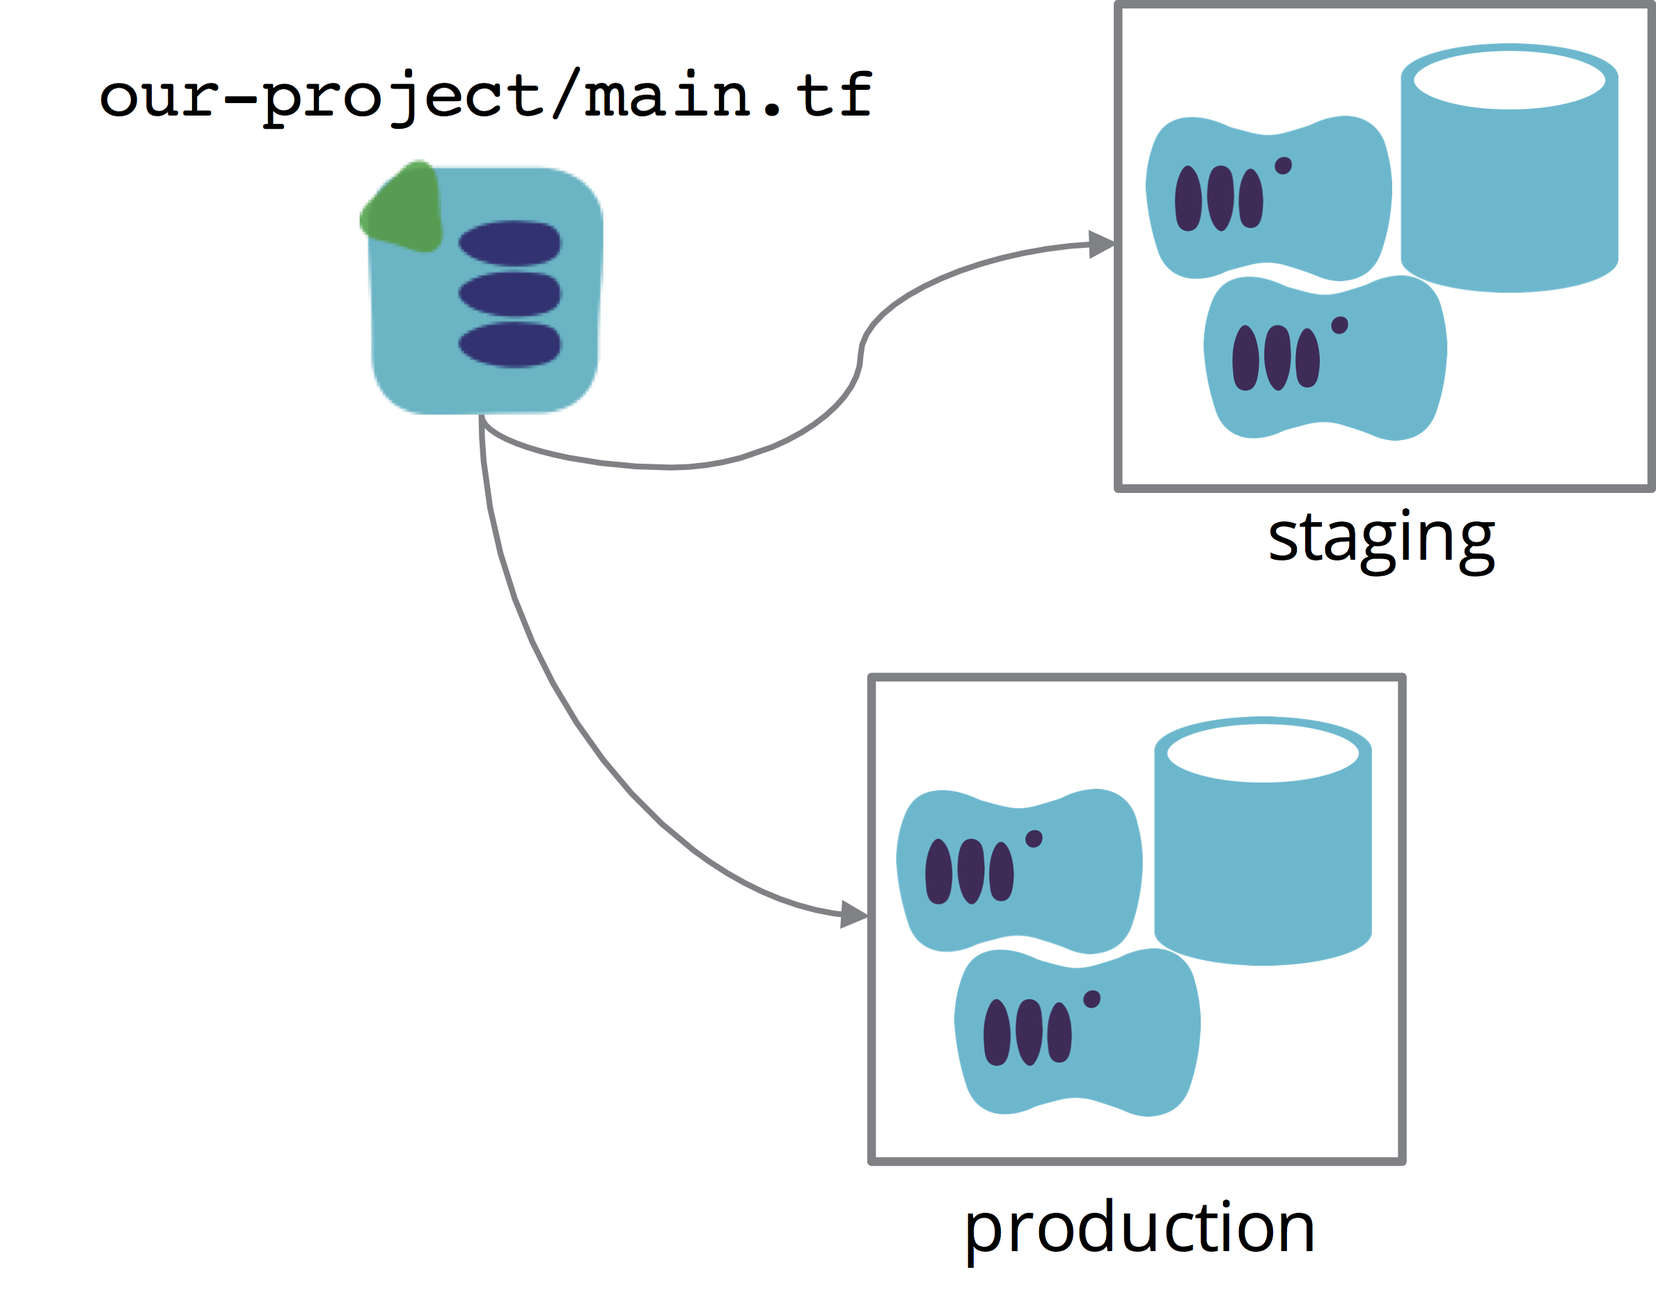
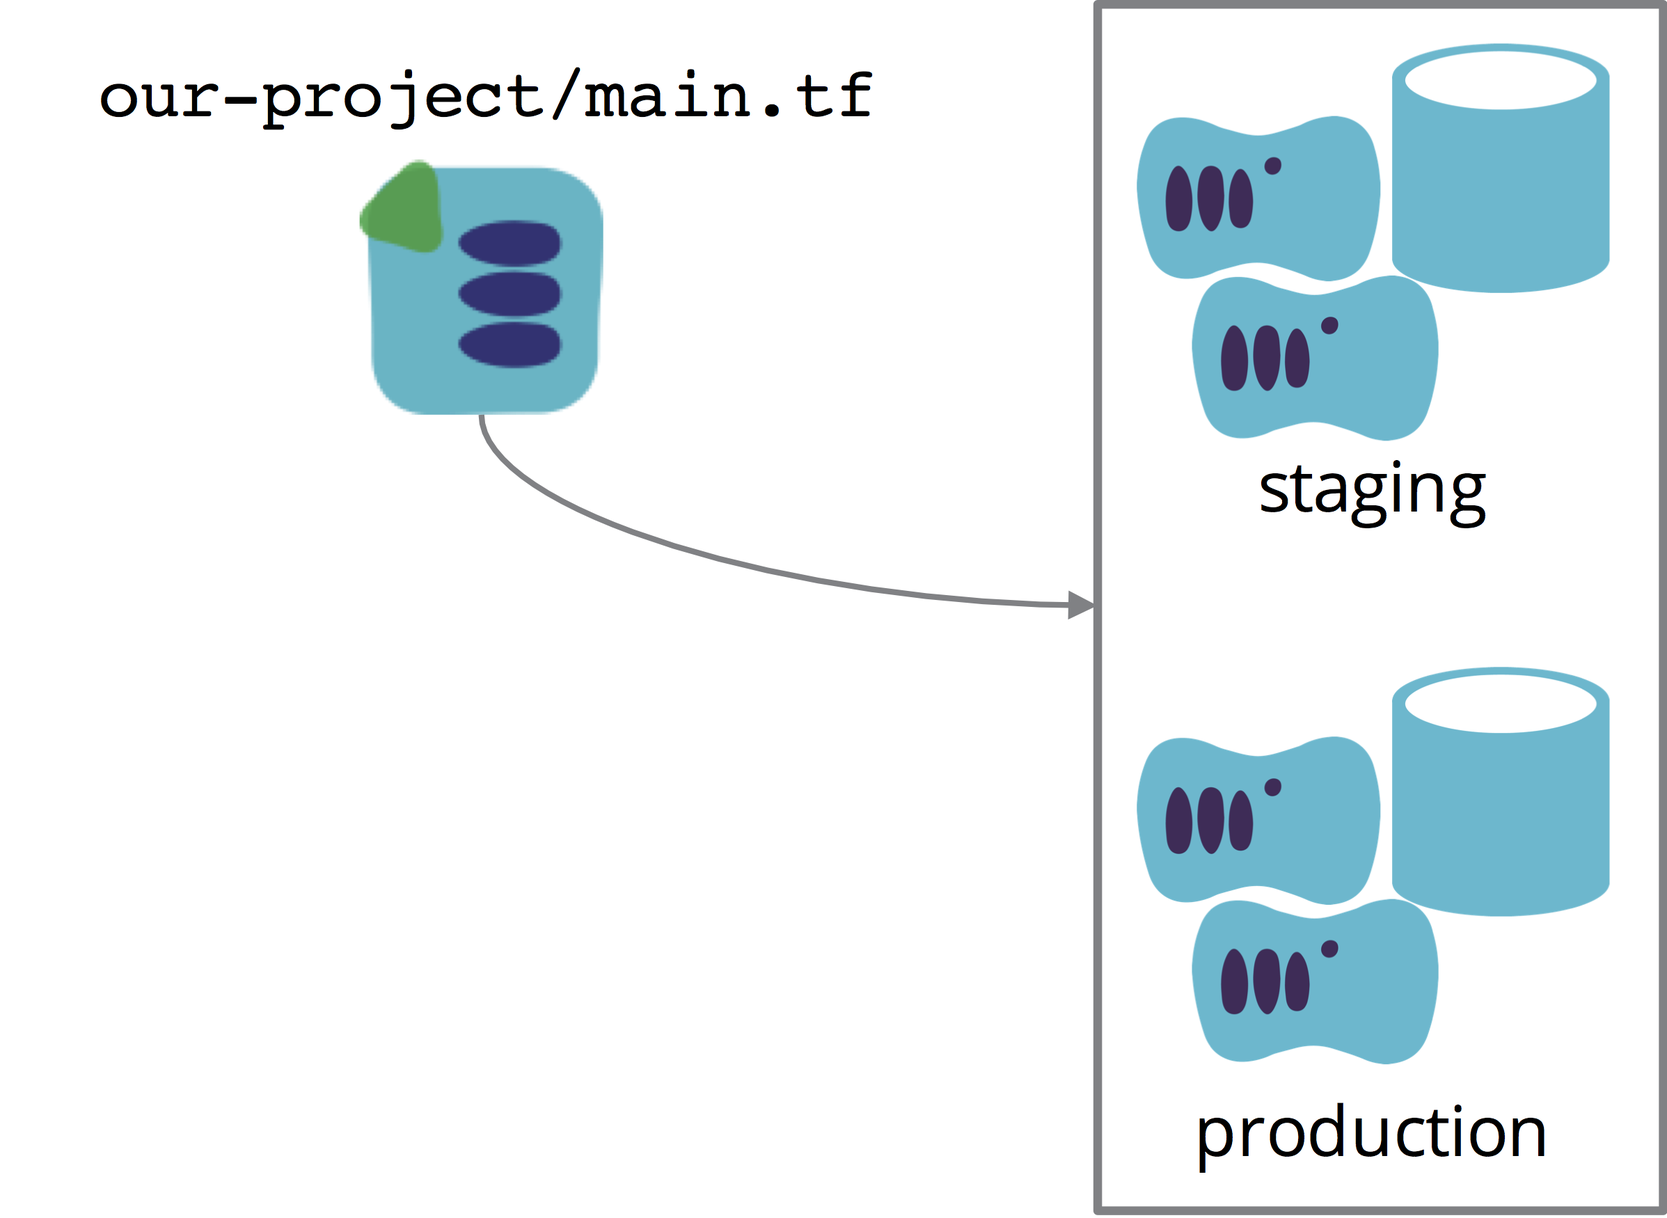
Updated speaking schedule

diff --git a/_posts/2016-12-12-environment-pipelines.md b/_posts/2016-12-12-environment-pipelines.md
@@ -1,0 +1,199 @@
+---
+layout: post
+title:  "Pipelines for Environments with Infrastructure as Code"
+date:   2012-12-12 08:44:00
+categories: book
+published: false
+---
+
+Tools like Terraform, CloudFormation, and Heat are a great way to define server infrastructure for environments for deploying software. The configuration to provision, modify, and rebuild an environment is captured in a way that is transparent, reproducible, and testable. Used right, these tools give us confidence to tweak, change, and refactor our infrastructure easily and comfortably.
+
+But as most of us discover after using the tools for a while, there are pitfalls. Any automation tool that makes it easy to roll a fix out across a sprawling infrastructure also makes it easy to roll a cock-up out across a sprawling infrastructure. Have you ever corrupted the /etc/hosts files on every server in your non-production estate, making it impossible to ssh into any of them - or to run the tool needed to fix the error? I have.
+
+What we need is a way to make and test changes safely, before applying them to environments that you care about[1]. This is software delivery 101 - test new builds in a staging environment before deploying to live. But the best way to structure your infrastructure code to do this isn't necessarily obvious.
+
+I'm going to describe a few different ways people do this:
+
+- Put all of the environments into a single stack
+- Define each environment in a separate stack
+- Create a single stack definition and promote it through a pipeline
+
+The nutshell on these is, the first way is bad. The second way work well for fairly simple setups (two or three environments, not many people working on them), and the third has more moving parts, but works well for larger and more complex groups.
+
+Before diving in, here are a couple of definitions: I use the term "stack" (or "stack instance") to refer to a set of infrastructure that is defined and managed as a unit. This maps directly to an AWS CloudFormation stack, and also to the set of infrastructure corresponding to a Terraform state file. I also talk about a "stack definition" as a file, or set of files, used by a tool to create a stack. This may be a folder with a bunch of *.tf files for Terraform or CloudFormation template files.
+
+I'll show some code examples using Terraform and AWS, but the concepts apply to pretty much any declarative, "Infrastructure as Code" tool, and any automated, dynamic infrastructure platform.
+
+I'll also assume two environments - staging and production, for the sake of simplicity. Many teams end up with more environments - development, QA, UAT, performance testing, etc. - but again, the concepts are the same.
+
+
+## One stack with all the environments
+
+This is the most straightforward approach, and the one that most people start out using. All of the environments, from development to production, are defined in a single stack definition, and created an managed as a single stack instance.
+
+The code example below shows a single Terraform configuration for both staging and production environments:
+
+
+    # STAGING ENVIRONMENT
+
+    resource "aws_vpc" "staging_vpc" {
+      cidr_block = "10.0.0.0/16"
+    }
+
+    resource "aws_subnet" "staging_subnet" {
+      vpc_id                  = "${aws_vpc.staging_vpc.id}"
+      cidr_block              = "10.0.1.0/24"
+    }
+
+    resource "aws_security_group" "staging_access" {
+      name        = "staging_access"
+      vpc_id      = "${aws_vpc.staging_vpc.id}"
+    }
+
+    resource "aws_instance" "staging_server" {
+      instance_type = "t2.micro"
+      ami = "ami-ac772edf"
+      vpc_security_group_ids = ["${aws_security_group.staging_access.id}"]
+      subnet_id = "${aws_subnet.staging_subnet.id}"
+    }
+
+
+    # PRODUCTION ENVIRONMENT
+
+    resource "aws_vpc" "production_vpc" {
+      cidr_block = "10.0.0.0/16"
+    }
+
+    resource "aws_subnet" "production_subnet" {
+      vpc_id                  = "${aws_vpc.production_vpc.id}"
+      cidr_block              = "10.0.1.0/24"
+    }
+
+    resource "aws_security_group" "production_access" {
+      name        = "production_access"
+      vpc_id      = "${aws_vpc.production_vpc.id}"
+    }
+
+    resource "aws_instance" "production_server" {
+      instance_type = "t2.micro"
+      ami = "ami-ac772edf"
+      vpc_security_group_ids = ["${aws_security_group.production_access.id}"]
+      subnet_id = "${aws_subnet.production_subnet.id}"
+    }
+
+
+This is a simple approach that makes everything visible in one place, but it doesn't isolate the environments from one another. Making a change to the staging environment risks breaking production. And resources may leak or become confused across environments, making it even easier to accidentally affect an environment you don't mean to.
+
+
+![Depiction of a single file defining multiple environments](/images/multiple-environments-multi-env-per-stack.png)
+
+
+Charity Majors shared [problems she ran into with this approach](https://charity.wtf/2016/03/30/terraform-vpc-and-why-you-want-a-tfstate-file-per-env/) using Terraform. The _blast radius_ (great term!) of a change is everything included in the stack. And note that this is still true even without Terraform state files. Defining multiple environments in a single CloudFormation stack is asking for trouble.
+
+
+## A Separate stack definition for each environment
+
+Charity (and others) suggests splitting your environments into separate stack definitions. Each environment would have its own directory with its own Terraform configuration:
+
+    ./our-project/staging/main.tf
+    ./our-project/production/main.tf
+
+These two different configurations should be identical, or nearly so. By running your infrastructure tool against each of these separately, you isolate the environments from one another (at least when it comes to using the tool, although obviously they may or may not be isolated in terms of networking, cloud account permissions, etc.) And because each environment has its own set of definition files, the intended state of each environment is very clear.
+
+
+![Depiction of two files defining two environments](/images/multiple-environments-separate-stacks.png)
+
+
+When you need to make a change, you edit the files for the staging environment stack, apply them, and test them. Iterate until it works like you want. Then make the same changes to the files for the production environment and apply them to the production stack instance.
+
+A drawback with this approach is that it's easy for differences to creep into environments. Someone might be in a rush, and make a change to the production environment without testing it in staging first. Even if it works OK, they might forget to back-port their changes to the staging environment files. These differences have a way of accumulating to the point where people no longer trust that staging really looks like production. It should be possible to wipe out staging and copy the current production files to refresh staging, but this can get messy with larger teams and codebases.
+
+So this pattern requires vigilance to keep the codebase consistent. This can be managed by using modules, sharing code across environments. But this adds versioning complexity. If someone makes a change to a module to test in staging, people must be careful to avoid the change being applied to production before it's ready. Modules can be extracted from the project codebase, and imported using versioning. But this adds more moving parts.
+
+
+## One stack definition, promoted to create multiple instances in a pipeline
+
+An alternative is to use a continuous delivery pipeline to promote a stack definition file across environments. Each environment has its own stack instance, so the blast radius for a change is contained to the environment. But a single stack definition is re-used to create and update each environment. The definition file is versioned, so we have visibility of what code was used for any environment, at any point in time.
+
+
+![Depiction of a file being copied to provision multiple environments](/images/single-definition-multiple-environments.png)
+
+
+The moving parts for implementing this are: a source repository, such as a git repository; an artefact repository; and a CI or CD server such as GoCD, Jenkins, etc.
+
+A simple example workflow is:
+
+1. Someone commits a change to the source repository.
+2. The CD server detects the change and puts a copy of the definition files into the artefact repository, with a version number.
+3. The CD server applies the definition version to the first environment, then runs automated tests to check it.
+4. Someone triggers the CD server to apply the definition version to production.
+
+![Depiction of a definition going through the basic workflow](/images/basic-pipeline-flow.png)
+
+
+### Benefits
+
+Teams I work with use pipelines for infrastructure for the same reasons that development teams use pipelines for their application code. It guarantees that every change has been applied to each environment, and that automated tests have passed. We know that all the environments are defined and created consistently.
+
+With the previous "one stack definition per environment" approach, creating a new environment requires creating a new folder with its own copy of the files. These files then need to be maintained and kept up to date with changes made to other environments.
+
+But the the pipeline approach is more flexible. New environment instances can be spun up on demand, which has a number of benefits:
+
+- Developers can create their own sandbox instances, so they can deploy and test cloud-based applications, or work on changes to the environment definitions, without conflicting with other team members.
+- Changes and deployments can be handled using a blue-green approach - create a new instance of the stack, test it, then swap traffic over and destroy the old instance.
+- Testers, reviewers, and others can create environments as needed, tearing them down when they're not being used.
+
+
+### Artefact repository, promotion, and versioning
+
+The pipeline treats a stack definition as a versioned artefact, promoting it from one stage to the next. As per Continuous Delivery, an artefact is never changed. This is why a separate artefact repository is recommended, in addition to the version control repository. The version control is used to manage changes to the definition, the artefact repository is used to preserve immutable, versioned artefacts.
+
+For stack definitions, I like using S3 bucket (or an equivalent) as a repository. I have a pipeline stage that "publishes" the definitions by creating a folder in the bucket with a version number in the name, and copying the files into it. This code is executed by a CI/CD server agent:
+
+
+    aws s3 sync ./our-project/ s3://our-project-repository/1.0.123/
+
+
+Promoting a version of a stack definition can be done in different ways. With the S3 bucket, I'll sometimes have a folder named for the environment, and copy the files for the relevant version into that folder. Again, this code runs from a CI/CD agent:
+
+
+    aws s3 sync --delete s3://our-project-repository/1.0.123/ s3://our-project-repository/staging/
+
+
+The pipeline stage for any environment simply runs Terraform (or CloudFormation), grabbing the definitions from the relevant folder.
+
+
+### Running the tool
+
+The commands are pretty much all run by the CI or CD server on an agent. This does a few good things. First, it ensures that the command is fully automated. There's no relying on "just one" manual step or tweak, which expands with "just one more, for now". You don't end up with different people doing things in their own way. You don't end up with undocumented steps. And you don't have to worry, in an emergency situation, that someone will forget that crucial step and bork the environment. If there's a step that can't easily be automated, then find a way.
+
+Another good thing is that you don't worry about different people applying changes to the same environment. Nobody applies changes to a common environment by running the tool from their own machine. No need to worry about locking and unlocking. No need to worry about locally edited changes. The only changes made to an environment you care about are the ones that have been fed into the pipeline.
+
+This also helps with consistency. Nobody can make a change that requires a special plugin or utility they've installed on their own laptop. There is no tweak that someone made when applying a change to staging, that might be forgotten for production. The tool is always run from a CD agent, which is built and configured consistently, always using the same script, no matter which environment it runs from.
+
+
+### Developer workflow
+
+People working on the infrastructure probably need to make and test changes to stack definitions rapidly, before committing into the pipeline. This is the one place you may want to run the tool locally. But when you do, you're doing it with your own instance of the environment stack. Pull the latest copy of the definitions from the source repo, run the tool to create the environment, then start making changes. (Write some automated tests, of course, which should also be in the source repo and automatically run in relevant environments in the pipeline.)
+
+When you're happy, make sure you've pulled the latest updates from master, and that your tests pass. Then commit the changes and destroy your environment.
+
+No need to worry about breaking a common environment like staging. If someone else is working on changes that might conflict with yours, you should see them when you pull from master. If the changes merge OK, but cause issues, they should be caught in the first test environment in the pipeline. The build goes red, everyone stops and looks to see what needs to be done to fix it.
+
+
+### When is this appropriate?
+
+I've been using the pipeline approach for environments for years. When I started talking about it at conferences, I was surprised to discover that it's not a familiar pattern even for many people with plenty of experience with infrastructure as code. I realize that the reason it's second nature to me is because ThoughtWorks teams use this approach by default for delivering software. It just seemed like the obvious thing to do it with infrastructure, too.
+
+Other approaches work well for other people. The pipeline approach has more moving parts than simply having a stack definition for each environment. For smaller teams, with a straightforward release process, a pipeline may be overkill. But as you have more people working on a system, and especially multiple teams and roles, a pipeline is useful for ensuring a consistent process for rolling out infrastructure changes. It may make sense even for smaller teams which are already using a pipeline to deliver software changes.
+
+There are some caveats. It takes time to get used to making infrastructure changes through a pipeline. You may not get as much value without at least some degree of automated testing, which is another discipline to build. Running infrastructure management tools automatically from a CD server agent requires a secure approach to managing secrets, to avoid your automation system from becoming an easy attack vector.
+
+I hope this piece helps people to understand how pipelines can be useful for infrastructure management.
+
+
+
+[1](Note that production may not be the only environment you care about, especially if you're working with a team, or multiple teams. Killing a test environment may stop people from integrating and testing their code, which can make you unpopular.)
+
+
+

diff --git a/30-speaking.md b/30-speaking.md
@@ -8,50 +8,56 @@ These are the talks Kief currently has scheduled, as well as links to previous t
 
 ## Upcoming
 
-Stay tuned ....
+w/b 30 January, 2017, TBD ThoughtWorks meetup in Johannesburg, South Africa
+
+6-7 February, 2017 [Config Management Camp](http://cfgmgmtcamp.eu/) in Gent, Belgium
+
+13 March, 2017 [DevOps Lisbon](https://www.meetup.com/DevOps-Lisbon/) in Lisbon, Portugal
+
+25 May, 2017 [Atlantec Festival](http://www.atlantec.ie/) in Galway, Ireland
 
 
 ## Previous
 
-15 November, 2016 [GOTO Berlin](https://gotocon.com/berlin-2016/presentations/show_talk.jsp?oid=7862)
+15 November, 2016 [GOTO Berlin](https://gotocon.com/berlin-2016/presentations/show_talk.jsp?oid=7862) in Berlin, Germany
 
-14 November, 2016 [Guild42](http://guild42.ch/?p=622) Bern
+14 November, 2016 [Guild42](http://guild42.ch/?p=622) in Bern, Switzerland
 
-28 October, 2016 [Swisscom Software Day](http://softwareday.swisscom.com/) Zurich
+28 October, 2016 [Swisscom Software Day](http://softwareday.swisscom.com/) Zurich, Switzerland
 
-18-21 October, 2016 [O'Reilly Software Architecture Conference](http://conferences.oreilly.com/software-architecture/engineering-business-eu/public/schedule/detail/52377) London
+18-21 October, 2016 [O'Reilly Software Architecture Conference](http://conferences.oreilly.com/software-architecture/engineering-business-eu/public/schedule/detail/52377) in London, UK
 
-28 September, 2016 [CoOp and ThoughtWorks Manchester](https://www.meetup.com/ThoughtWorks-Manchester-Tech-Talk/events/233885562/)
+28 September, 2016 [CoOp and ThoughtWorks Manchester](https://www.meetup.com/ThoughtWorks-Manchester-Tech-Talk/events/233885562/) in Manchester, UK
 
-20-22 September, 2016 [Velocity New York](http://conferences.oreilly.com/velocity/devops-web-performance-ny/public/schedule/detail/51192)
+20-22 September, 2016 [Velocity New York](http://conferences.oreilly.com/velocity/devops-web-performance-ny/public/schedule/detail/51192) in New York, USA
 
-10 September, 2016 Munich Book Launch at Thoughtworks
+10 September, 2016 Book Launch at Thoughtworks in Munich, Germany
 
-9 September, 2016 Berlin Book Launch at Thoughtworks
+9 September, 2016 Book Launch at Thoughtworks in Berlin, Germany
 
-30 August, 2016 Denver Infrastructure as Code talk / book launch at [Galvanize Platte](http://www.galvanize.com/campuses/denver-platte/)
+30 August, 2016 Denver Infrastructure as Code talk / book launch at [Galvanize Platte](http://www.galvanize.com/campuses/denver-platte/) in Denver, USA
 
-18 August, 2016 [San Francisco Book Launch](https://info.thoughtworks.com/Infrastructure-As-Code-SF-Launch.html) at ThoughtWorks.
+18 August, 2016 [San Francisco Book Launch](https://info.thoughtworks.com/Infrastructure-As-Code-SF-Launch.html) at ThoughtWorks in San Francisco, USA
 
-14 July, 2016 [XConf Manchester](https://info.thoughtworks.com/Xconf-Manchester-2016.html)
+14 July, 2016 [XConf Manchester](https://info.thoughtworks.com/Xconf-Manchester-2016.html) in Manchester, UK
 
-21 July, 2016 [ThoughtWorks Barcelona](http://www.meetup.com/ThoughtWorks-Barcelona/events/232560002/?eventId=232560002)
+21 July, 2016 [ThoughtWorks Barcelona](http://www.meetup.com/ThoughtWorks-Barcelona/events/232560002/?eventId=232560002) in Barcelona, Spain
 
-12 July, 2016 [XConf Hamburg](https://info.thoughtworks.com/Xconf-hamburg-2016.html)
+12 July, 2016 [XConf Hamburg](https://info.thoughtworks.com/Xconf-hamburg-2016.html) in Hamburg, Germany
 
-7 July, 2016 [London Book Launch](https://info.thoughtworks.com/Book-launch-infrastructure-as-code) at the ThoughtWorks office.
+7 July, 2016 [London Book Launch](https://info.thoughtworks.com/Book-launch-infrastructure-as-code) at the ThoughtWorks office in London, UK
 
-29 June, 2016 [ThoughtWorks Madrid](http://www.meetup.com/ThoughtWorks-Madrid/events/231646246)
+29 June, 2016 [ThoughtWorks Madrid](http://www.meetup.com/ThoughtWorks-Madrid/events/231646246) in Madrid, Spain
 
-28 June, 2016 [NGINX Webinar](https://www.nginx.com/resources/webinars/how-to-adopt-infrastructure-as-code/)
+28 June, 2016 [NGINX Webinar](https://www.nginx.com/resources/webinars/how-to-adopt-infrastructure-as-code/) online
 
-27 June, 2016 ThoughtWorks webinar - discussion with Martin Fowler any myself on Infrastructure as Code and development practices
+27 June, 2016 ThoughtWorks webinar - discussion with Martin Fowler any myself on Infrastructure as Code and development practices, online
 
-21 June, 2016 [Infracoders London](http://www.meetup.com/Infracoders-London/events/231184765/)
+21 June, 2016 [Infracoders London](http://www.meetup.com/Infracoders-London/events/231184765/) in London, UK
 
-13 June, 2016 [QCon New York](https://qconnewyork.com/ny2016/presentation/implementing-infrastructure-code) [[Video](https://www.infoq.com/presentations/infrastructure-as-code-2016)]
+13 June, 2016 [QCon New York](https://qconnewyork.com/ny2016/presentation/implementing-infrastructure-code) [[Video](https://www.infoq.com/presentations/infrastructure-as-code-2016)] in New York, USA
 
-13 April, 2016 [GOTONights Amsterdam](http://www.meetup.com/GOTO-Nights-Amsterdam/events/228863905/) [[Video](https://www.youtube.com/watch?v=Lifb3TovNtY)]
+13 April, 2016 [GOTONights Amsterdam](http://www.meetup.com/GOTO-Nights-Amsterdam/events/228863905/) [[Video](https://www.youtube.com/watch?v=Lifb3TovNtY)] in Amsterdam, Netherlands
 
-24-25 September, 2015 [operability.io London](http://operability.io/2015/) [[Video](https://www.youtube.com/watch?v=a4PuAkI7uGg)]
+24-25 September, 2015 [operability.io London](http://operability.io/2015/) [[Video](https://www.youtube.com/watch?v=a4PuAkI7uGg)] in London, UK
 
